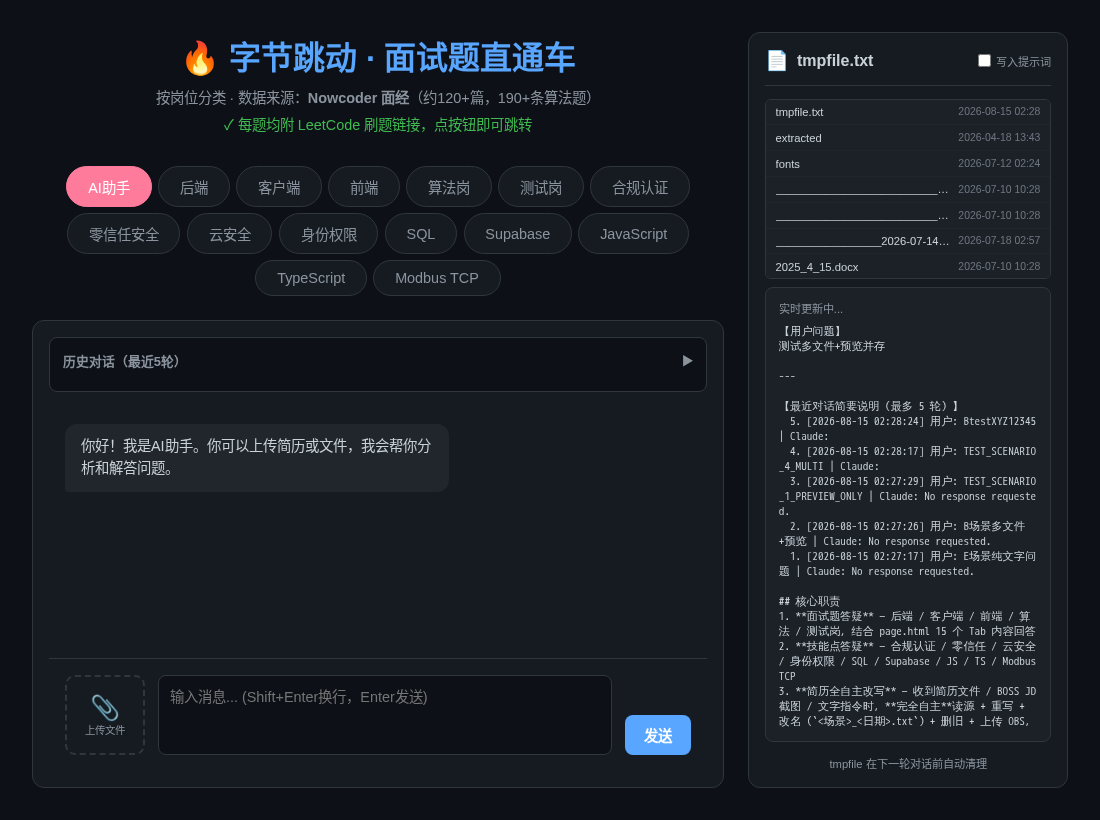
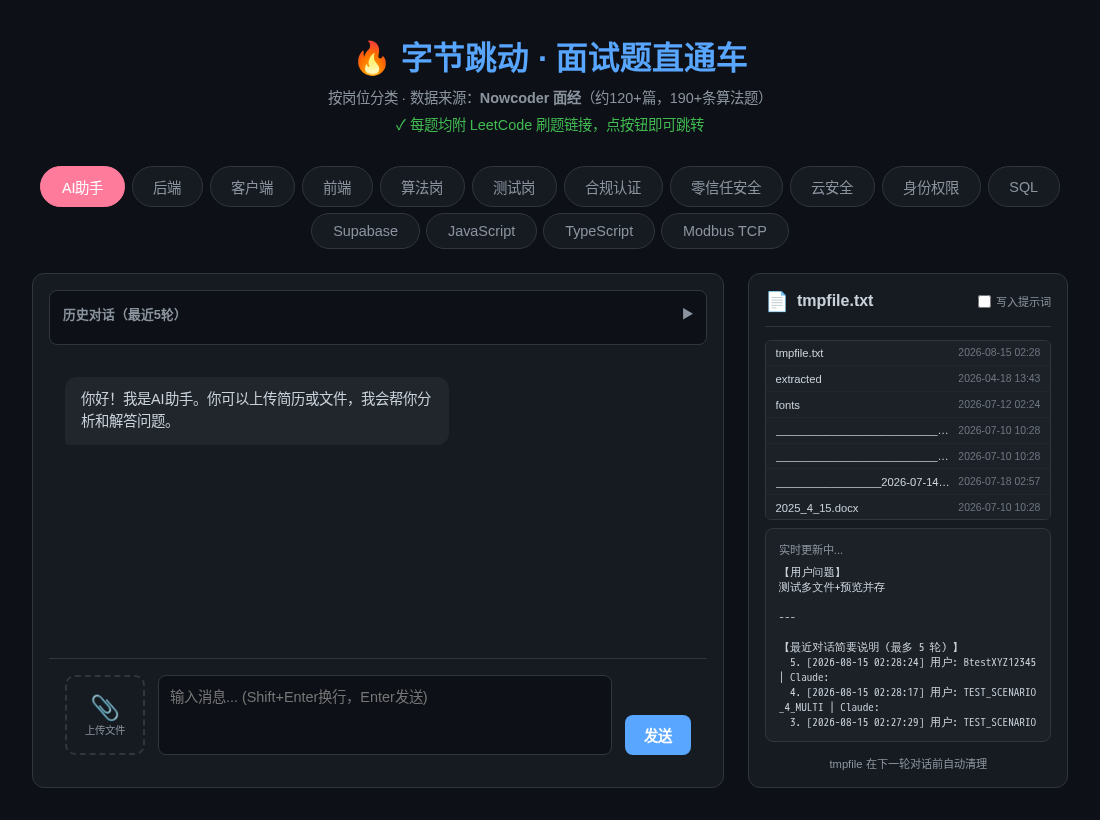
refactor(layout): AI 助手顶栏横跨整个 shell，宽度整体对齐
上一版 `body.ai-active{padding-right:376px}` 让标题/Tabs 只对齐左列，
右缘停在聊天列右缘、而整页外框右缘在预览列右缘，宽度不齐。
本次改为「全宽顶栏 + 两栏、两列同高撑到底」：

- 顶栏「标题 + Tabs」横跨整个 shell 宽度（左右边缘 = shell 外框左右边缘，居中）
- 左列 `#ai-tab-wrapper{padding-right:344px}`（320 右列 + 1.5rem 间隙）给右列留位，
  聊天列左右边缘 = 左列
- 右列 `#tmpfile-sidebar` `position:fixed`（`bottom:2rem`，`top` 由 JS 设为 Tabs 下方），
  `right:max(2rem,calc((100vw-1440px)/2+2rem))` 令其贴合 shell 右缘，
  与左列同高、一起撑到页面底部，恒定 24px 间隙
- `syncAiTabHeight()` 同步重算 `#chat-area` 高度与右列 `top`；<900px 降级为纵向堆叠
- README.md / SKILL.md 更新；docs/screenshots/ 换成新布局截图
- 实测(Chromium 1920/1440/1280/1100)：header/tabs/chat 左缘一致、
  顶栏右缘 = 预览列右缘 = shell 右缘；chat.right→side.left 恒为 24px；
  两列 top 相同、bottom=视口底-32；切到「后端」Tab 后 `body.ai-active` 移除、右列恢复文档流

diff --git a/page.html b/page.html
@@ -56,18 +56,21 @@ body{background:var(--bg);color:var(--text);font-family:-apple-system,BlinkMacSy
 body.ai-active{
   box-sizing:border-box;
   max-width:1440px;margin:0 auto;
-  padding-right:376px;   /* 320 右列 + 2rem 右距 + 1.5rem 间隙，让给右列 */
 }
+/* 顶部「标题 + Tabs」横跨整个 shell（左右边缘 = 整页外框的左右边缘）；
+   下方左列是对话框，右列是预览栏，两列同高、一起撑到页面底部。
+   左列让出右列的位置：320 右列 + 1.5rem 间隙 = 344px */
+body.ai-active #ai-tab-wrapper{padding-right:344px;}
 body.ai-active #tmpfile-sidebar{
-  position:fixed;top:2rem;bottom:2rem;left:auto;
+  position:fixed;bottom:2rem;left:auto;
   width:320px;height:auto;max-height:none;margin:0;z-index:30;
-  /* 超宽屏时 shell 居中，右列随之贴合 shell 右缘（与左列始终 1.5rem 间隙） */
+  /* top 由 JS 设为 Tabs 下方（与左列对齐）；超宽屏时 shell 居中，右列随之贴合 shell 右缘 */
   right:max(2rem, calc((100vw - 1440px) / 2 + 2rem));
 }
 @media (max-width:900px){
   body.ai-active{max-width:none;padding:1rem;}
   body.ai-active #tmpfile-sidebar{position:static;width:auto;height:auto;margin-top:1rem;}
-  body.ai-active #ai-tab-wrapper{flex-direction:column;}
+  body.ai-active #ai-tab-wrapper{flex-direction:column;padding-right:0;}
 }
 </style></head><body class=ai-active><div class=header><h1>&#128293; 字节跳动 · 面试题直通车</h1><p>按岗位分类 · 数据来源：<strong>Nowcoder 面经</strong>（约120+篇，190+条算法题）</p><p style="margin-top:0.4rem;color:#3fb950;">&#10003; 每题均附 LeetCode 刷题链接，点按钮即可跳转</p></div><div class=tabs id=mainTabs><button class=tab-btn active style="background:#ff7b9c;border-color:#ff7b9c;color:#fff" data-tab="AI助手" onclick="switchTab(this)">AI助手</button><button class=tab-btn style="" data-tab="后端" onclick="switchTab(this)">后端</button><button class=tab-btn style="" data-tab="客户端" onclick="switchTab(this)">客户端</button><button class=tab-btn style="" data-tab="前端" onclick="switchTab(this)">前端</button><button class=tab-btn style="" data-tab="算法岗" onclick="switchTab(this)">算法岗</button><button class=tab-btn style="" data-tab="测试岗" onclick="switchTab(this)">测试岗</button><button class=tab-btn style="" data-tab="合规认证" onclick="switchTab(this)">合规认证</button><button class=tab-btn style="" data-tab="零信任安全" onclick="switchTab(this)">零信任安全</button><button class=tab-btn style="" data-tab="云安全" onclick="switchTab(this)">云安全</button><button class=tab-btn style="" data-tab="身份权限" onclick="switchTab(this)">身份权限</button><button class=tab-btn style="" data-tab="SQL" onclick="switchTab(this)">SQL</button><button class=tab-btn style="" data-tab="Supabase" onclick="switchTab(this)">Supabase</button><button class=tab-btn style="" data-tab="JavaScript" onclick="switchTab(this)">JavaScript</button><button class=tab-btn style="" data-tab="TypeScript" onclick="switchTab(this)">TypeScript</button><button class=tab-btn style="" data-tab="ModbusTCP" onclick="switchTab(this)">Modbus TCP</button></div><div id=tab-AI助手 class="tab-content active"><div id=ai-tab-wrapper style="display:flex;gap:1rem;">
 <div id=chat-area style="flex:1;background:#161b22;border:1px solid #30363d;border-radius:12px;padding:1rem;height:calc(100vh - 200px);display:flex;flex-direction:column;">
@@ -686,11 +689,15 @@ function syncAiTabHeight(){
   document.body.classList.toggle("ai-active", active);
   if(!active) return;
   var chat = document.getElementById("chat-area");
-  if(chat){
-    var top = wrap.getBoundingClientRect().top; /* 视口坐标：无需加 scrollY */
-    var h = window.innerHeight - top - 32;      /* 32 = body 底部留白 (2rem) */
-    if(h < 360) h = 360;
-    chat.style.height = h + "px";               /* 左侧对话框：从 Tabs 下方撑到底部 */
+  var side = document.getElementById("tmpfile-sidebar");
+  var top = wrap.getBoundingClientRect().top; /* 视口坐标：无需加 scrollY */
+  var h = window.innerHeight - top - 32;      /* 32 = body 底部留白 (2rem) */
+  if(h < 360) h = 360;
+  /* 左、右两列同高：都从 Tabs 下方撑到页面底部（右列 top/bottom 对齐左列） */
+  if(chat) chat.style.height = h + "px";
+  if(side){
+    if(window.innerWidth > 900){ side.style.top = top + "px"; }
+    else { side.style.top = ""; side.style.height = ""; }
   }
 }
 window.addEventListener("resize", syncAiTabHeight);

diff --git a/README.md b/README.md
@@ -31,9 +31,9 @@
 - 对话持久化（`uploads/dialogs/`）
 - 历史对话默认显示最近 5 轮
 - tmpfile 侧边栏实时显示 prompt 上下文
-- **两栏 app shell：右侧预览列「从顶至底」**：AI 助手 Tab 下整页是一个居中的 shell（`max-width:1440px`，超宽屏不无限拉伸）。左侧「标题 + Tabs + 对话框」共用同一列宽（三者左右边缘对齐，`#chat-area` 撑到底部）；右侧 `#tmpfile-sidebar` 用 `position:fixed`（`top/bottom:2rem`）钉在 shell 右缘、自视口顶部贯通到底部，与左列恒定 24px 间隙，PDF / DOCX 预览 iframe 占满整列。
-  - 实现：`body.ai-active{padding-right:376px}` 给右列留位；右列 `right:max(2rem,calc((100vw - 1440px)/2 + 2rem))` 令其在超宽屏下仍贴合 shell 右缘。
-  - 切 Tab 时 `syncAiTabHeight()`（page.html 顶层函数）按状态增删 `body.ai-active` 并重算 `#chat-area` 高度，`resize` / `load` 自动重算；其它 Tab 布局完全不受影响（`<900px` 时降级为纵向堆叠）。
+- **全宽顶栏 + 两栏 app shell：宽度整体对齐**：AI 助手 Tab 下整页是一个居中的 shell（`max-width:1440px`，超宽屏不无限拉伸）。顶部「标题 + Tabs」横跨整个 shell 宽度（左右边缘 = shell 外框左右边缘，居中）；其下左列 `#chat-area`、右列 `#tmpfile-sidebar` 两列同高、一起撑到页面底部，右列贴 shell 右缘、与左列恒定 24px 间隙，PDF / DOCX 预览 iframe 占满整列。
+  - 实现：`body.ai-active` 让顶栏占满 shell 宽度；左列 `#ai-tab-wrapper{padding-right:344px}`（320 右列 + 1.5rem 间隙）给右列留位；右列 `position:fixed`（`bottom:2rem`，`top` 由 JS 设为 Tabs 下方）并 `right:max(2rem,calc((100vw - 1440px)/2 + 2rem))` 令其在超宽屏下仍贴合 shell 右缘。
+  - 切 Tab 时 `syncAiTabHeight()`（page.html 顶层函数）按状态增删 `body.ai-active`、重算 `#chat-area` 与右列的顶部/高度，`resize` / `load` 自动重算；其它 Tab 布局完全不受影响（`<900px` 时降级为纵向堆叠）。
 - 布局截图见 `docs/screenshots/`
 
 ### 辅助能力

diff --git a/SKILL.md b/SKILL.md
@@ -17,7 +17,7 @@ version: v3.8.4 (2026-10-06)
 4. **面试辅导** — 知识点串联、LeetCode 刷题、面试技巧
 5. **文件预览** — PDF（base64 iframe）/ DOCX（mammoth → iframe `srcdoc`，保留表格 / 列表 / 内联图）/ TXT（`<pre>`）/ 其他二进制提示；预览区右上角可一键「↑ 上传到 OBS」
 6. **对话持久化** — `uploads/dialogs/dialog_<ts>_<hex>.json`，每次恢复最近 5 轮
-7. **两栏 app shell（右侧预览列「从顶至底」）** — AI 助手 Tab 下整页为居中 shell（`max-width:1440px`）：左侧「标题 + Tabs + 对话框」三者同宽对齐、`#chat-area` 撑到底部；右侧 `#tmpfile-sidebar` 由 `body.ai-active` 设为 `position:fixed`（`top/bottom:2rem`，`right:max(2rem,calc((100vw-1440px)/2+2rem))`）钉在 shell 右缘、自视口顶部贯通到底部，与左列恒定 24px 间隙，PDF / DOCX 预览 iframe 占满整列。`syncAiTabHeight()`（顶层函数，page.html）切 Tab 时增删 `body.ai-active` 并重算 `#chat-area` 高度，`resize` / `load` 重算；其它 Tab 不受影响（`<900px` 纵向堆叠）
+7. **全宽顶栏 + 两栏 app shell（宽度整体对齐）** — AI 助手 Tab 下整页为居中 shell（`max-width:1440px`）：顶部「标题 + Tabs」横跨整个 shell 宽度（左右边缘 = shell 外框左右边缘，居中）；其下左列 `#chat-area`、右列 `#tmpfile-sidebar` 两列同高、一起撑到页面底部。左列 `#ai-tab-wrapper{padding-right:344px}` 给右列留位；右列由 `body.ai-active` 设为 `position:fixed`（`bottom:2rem`，`top` 由 JS 设为 Tabs 下方，`right:max(2rem,calc((100vw-1440px)/2+2rem))`）贴 shell 右缘，与左列恒定 24px 间隙，PDF / DOCX 预览 iframe 占满整列。`syncAiTabHeight()`（顶层函数，page.html）切 Tab 时增删 `body.ai-active` 并重算 `#chat-area` 高度与右列顶部，`resize` / `load` 重算；其它 Tab 不受影响（`<900px` 纵向堆叠）
 
 ## 用户基本信息（机器可识别）
 
